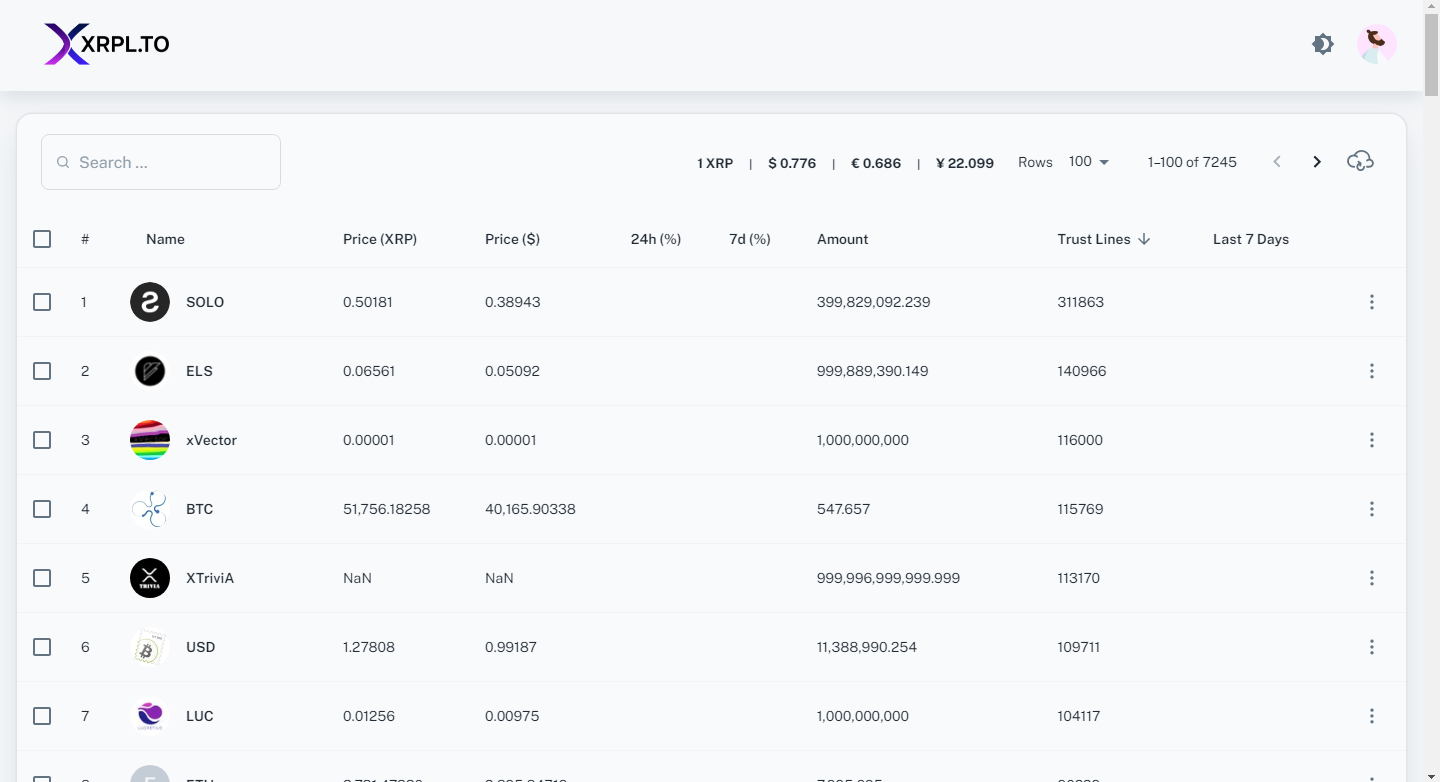
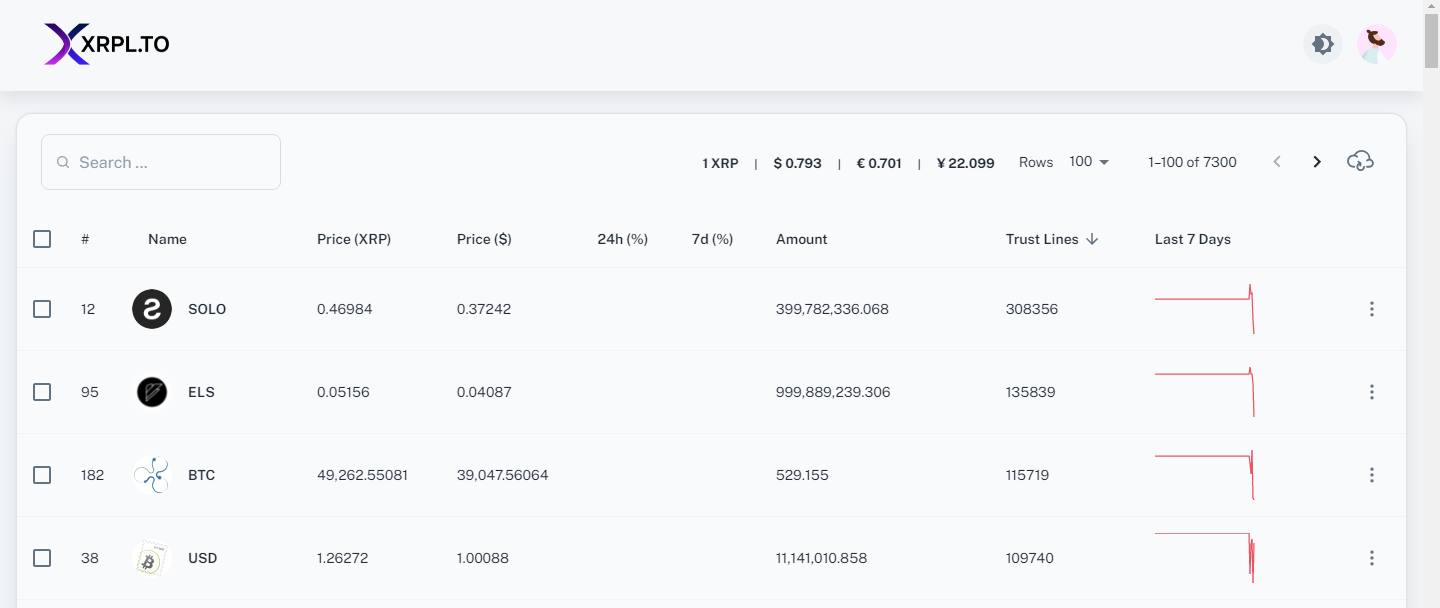
Upload screenshots - Chart version

diff --git a/src/pages/Token.js b/src/pages/Token.js
@@ -9,6 +9,7 @@ import Str from '@supercharge/strings';
 
 // material
 import {
+    Box,
     Backdrop,
     Card,
     Table,
@@ -76,13 +77,13 @@ function applySortFilter(array, comparator, query) {
     if (query) {
         return filter(array, (_token) => _token.name.toLowerCase().indexOf(query.toLowerCase()) !== -1);
     }
-    let idx = 1;
+    /*let idx = 1;
     const res = stabilizedThis.map((el) => {
         el[0].id = idx++;
         return el[0];
     });
-    return res;
-    //return stabilizedThis.map((el) => el[0]);
+    return res;*/
+    return stabilizedThis.map((el) => el[0]);
 }
 
 export default function Token() {
@@ -165,7 +166,6 @@ export default function Token() {
                     }
                     for (var i in res.data.tokens) {
                         let token = res.data.tokens[i];
-                        token.id = i;
                         token.price_xrp = token.exch;
                         token.price_usd = token.exch;
                         token.amount = token.amt;
@@ -342,6 +342,16 @@ export default function Token() {
                           <TableCell align="left">{trline}</TableCell>
                           <TableCell align="left">
                                 {/* {Str(acct).limit(10, '...').get()} */}
+                                {/* <Box
+                                  component="img"
+                                  alt={`${name}`}
+                                  src={`https://www.coingecko.com/coins/${id}/sparkline`}
+                                /> */}
+                                <Box
+                                  component="img"
+                                  alt=""
+                                  src={`https://ws.xrpl.to/api/v1/sparkline/${id}`}
+                                />
                           </TableCell>
                           {/*
                           <a href={`https://bithomp.com/explorer/${acct}`} target="_blank" rel="noreferrer noopener"> 
